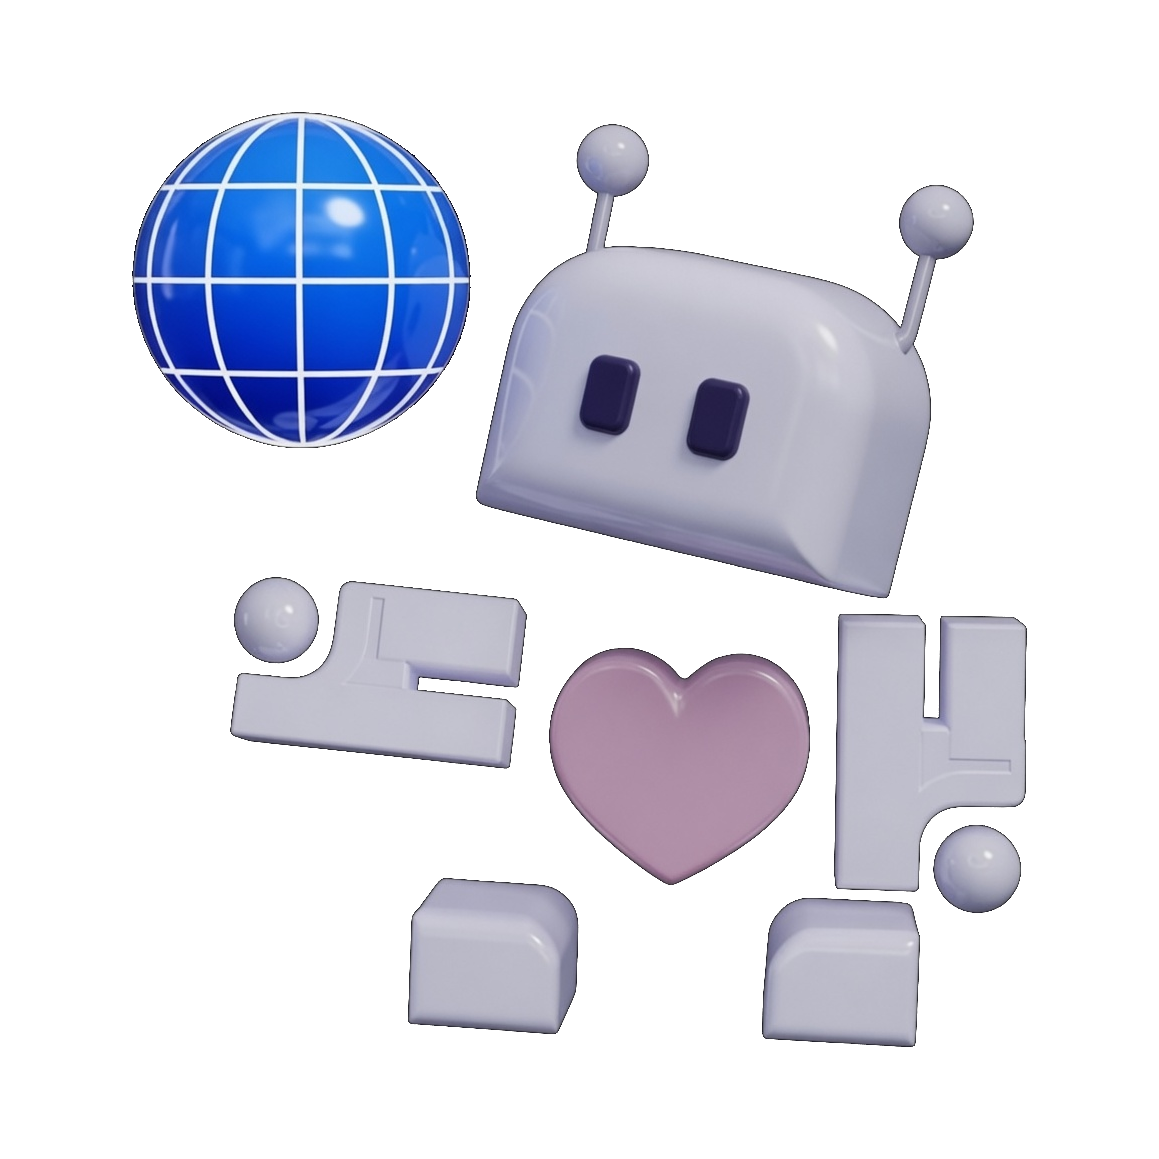
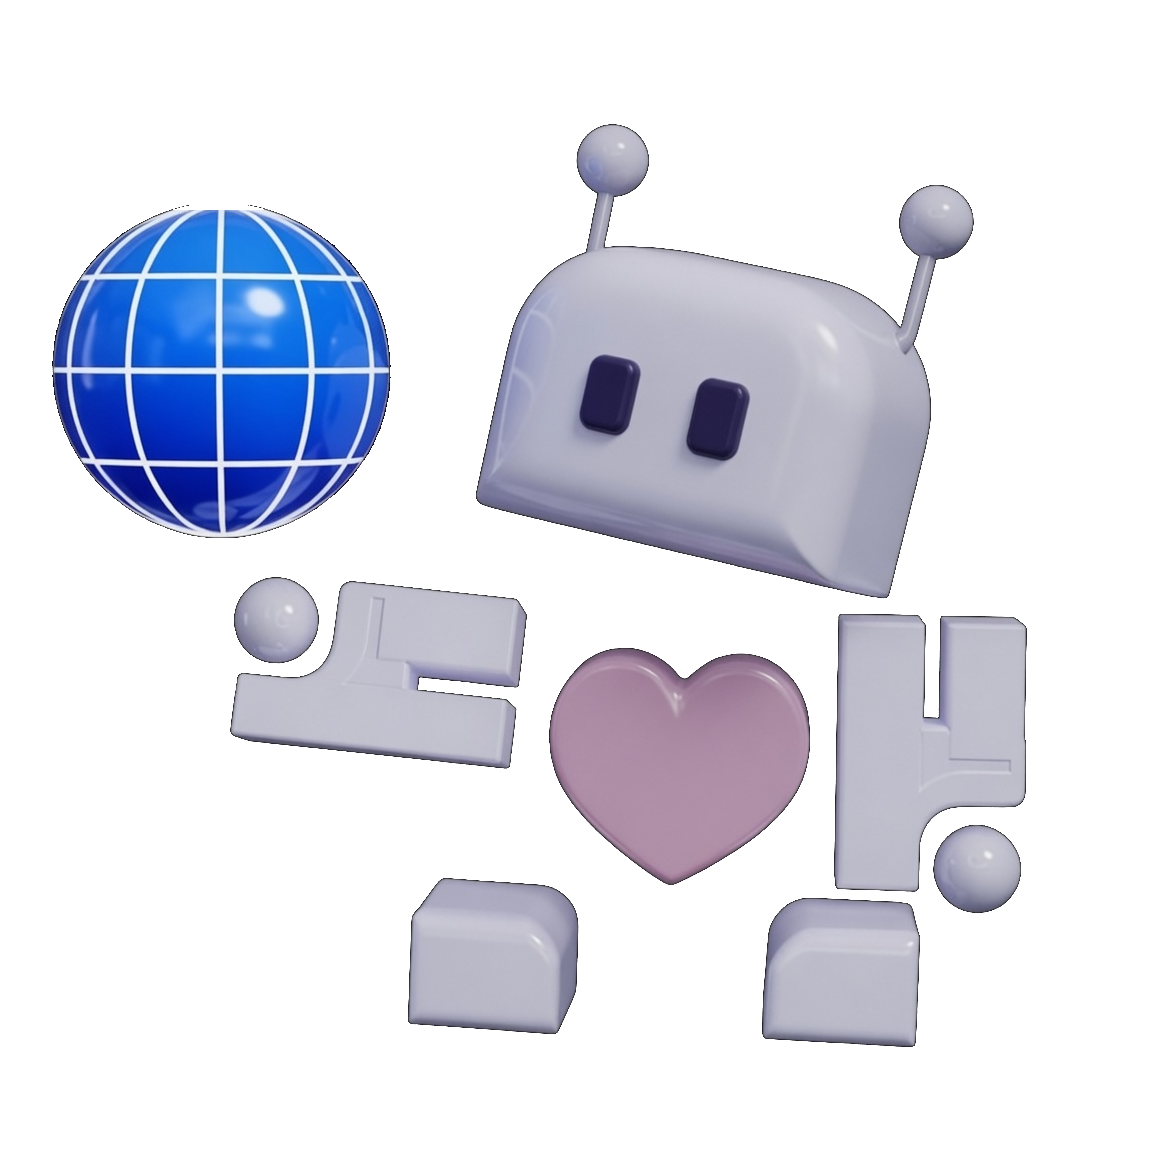
feat(open-web-vectors): slide the globe left and down
Sit the orb farther onto his right, a little lower, hovering over
the outstretched arm instead of up by his temple.

Changed region(s): [[0.0311, 0.0932, 0.4038, 0.4659]]

diff --git a/site/templates/open-web-vectors.html b/site/templates/open-web-vectors.html
@@ -64,8 +64,8 @@
         </g>
       </svg>
       <div class="owv-orbit-scrim"></div>
-      <img class="owv-orbit-robot" src="/images/robot-orbit-520.webp?v=glance"
-           srcset="/images/robot-orbit-320.webp?v=glance 320w, /images/robot-orbit-520.webp?v=glance 520w"
+      <img class="owv-orbit-robot" src="/images/robot-orbit-520.webp?v=orb2"
+           srcset="/images/robot-orbit-320.webp?v=orb2 320w, /images/robot-orbit-520.webp?v=orb2 520w"
            sizes="200px" width="520" height="520" alt="" loading="lazy" decoding="async">
     </div>
     <div class="container">
